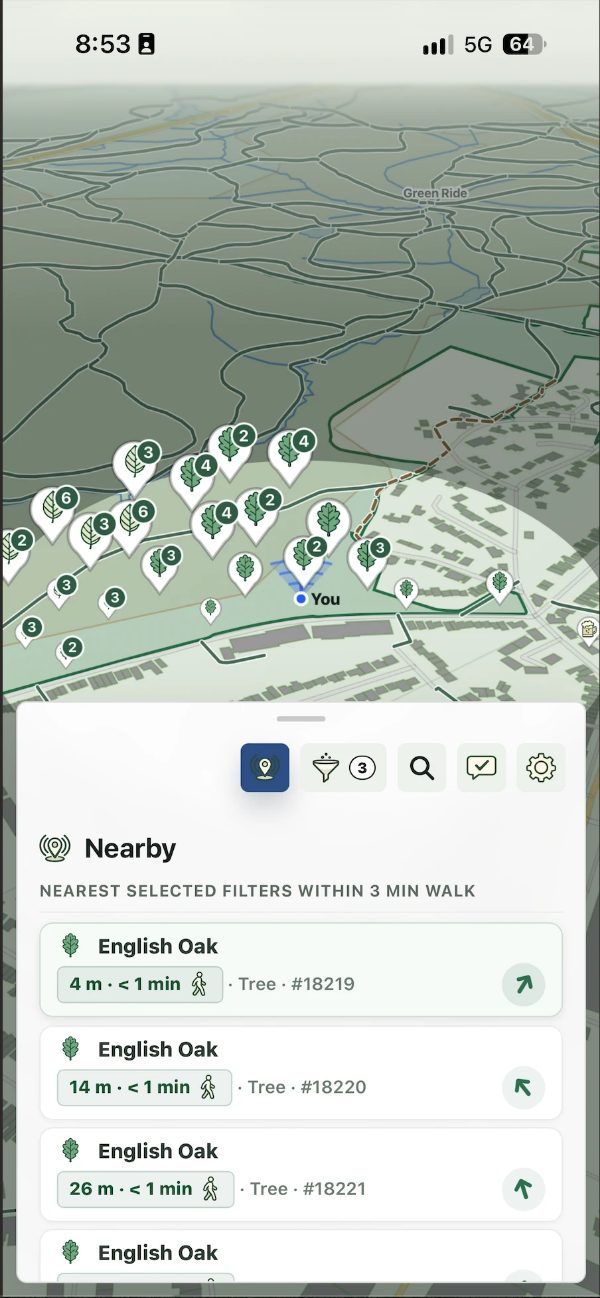
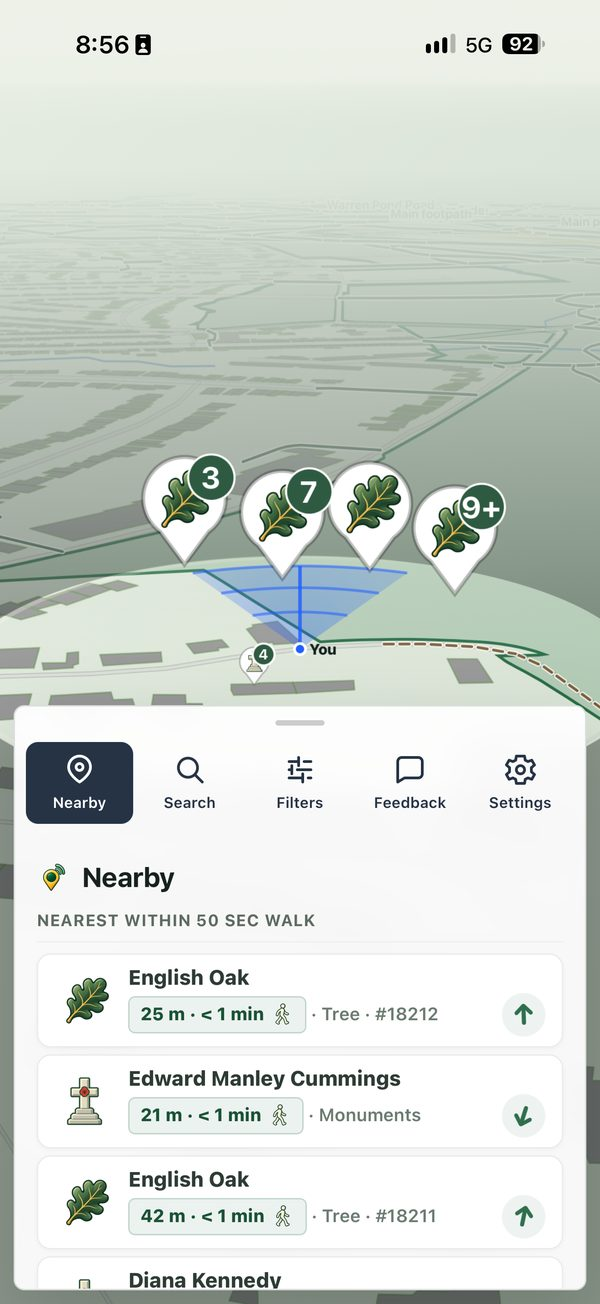
Homepage: refresh Nearby and tree-age screenshots
Replace the step 2 (Nearby) and step 3 (tree age) phone shots in the
"What's with the tree tags?" section with fresh captures showing the
current labelled bottom nav, tilted map and route line. Both are scaled
to 600px wide as before; dimensions and alt text updated to match.

Claude-Session: https://claude.ai/code/session_01NzVbq9jTL8Qdhta9d1Txa9

diff --git a/index.html b/index.html
@@ -215,11 +215,11 @@
           <figcaption><strong>1. Pop in the tag number.</strong> See that little number on the tree? Type it in and its record comes up on the map.</figcaption>
         </figure>
         <figure class="app-shot app-shot-route">
-          <img src="assets/home/app-nearby-route.jpg" width="600" height="1298" loading="lazy" decoding="async" alt="The app’s map showing a dashed walking route through the forest, with the nearest English Oaks listed by distance and direction.">
+          <img src="assets/home/app-nearby-route.jpg" width="600" height="1304" loading="lazy" decoding="async" alt="The app’s tilted 3D map with oak markers ahead of you, and the nearest English Oaks and a monument listed by walking distance and direction.">
           <figcaption><strong>2. Take the scenic route.</strong> Pick the tree for a route from where you are. We’ll try to take you through forest paths and alleyways — the nice way round. Check the tag when you get there.</figcaption>
         </figure>
         <figure class="app-shot app-shot-age">
-          <img src="assets/home/app-tree-age.jpg" width="600" height="1303" loading="lazy" decoding="async" alt="The app’s detail screen for English Oak tag 15963, showing an estimated age of about 70 years, its girth and a route from your location.">
+          <img src="assets/home/app-tree-age.jpg" width="600" height="1304" loading="lazy" decoding="async" alt="The app’s detail screen for English Oak tag 18214, showing an estimated age of about 134 years, with a short dashed route from your location to the tree.">
           <figcaption><strong>3. See how old it might be.</strong> We use the recorded girth and species for an educated guess, where we’ve got the data. It’s not an exact birthday, so hold off on the candles.</figcaption>
         </figure>
       </div>
